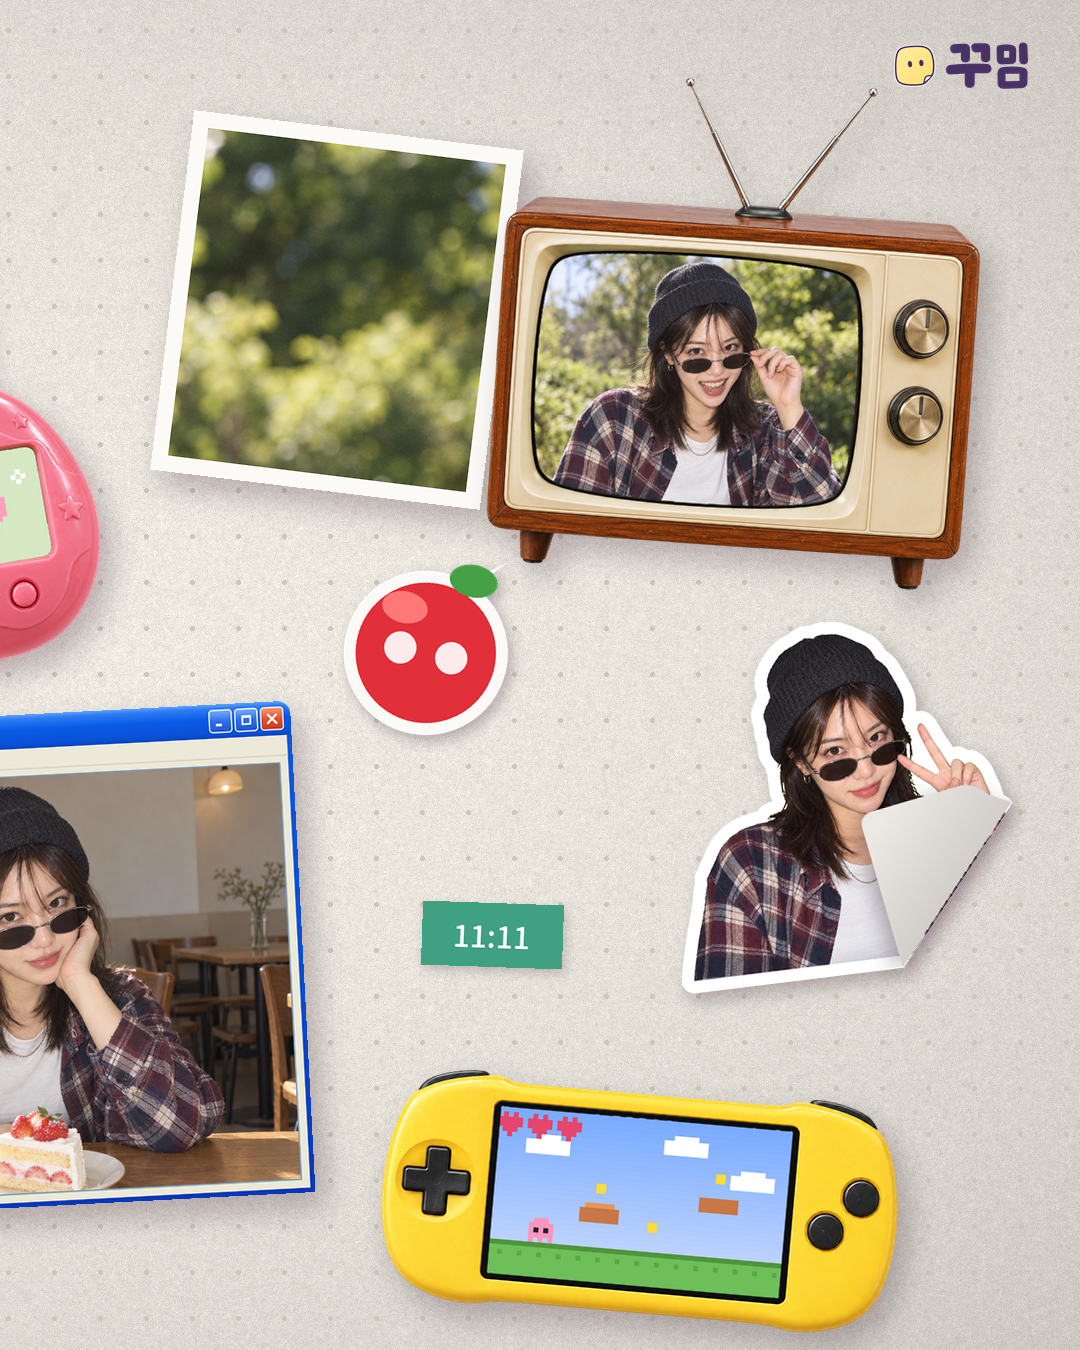
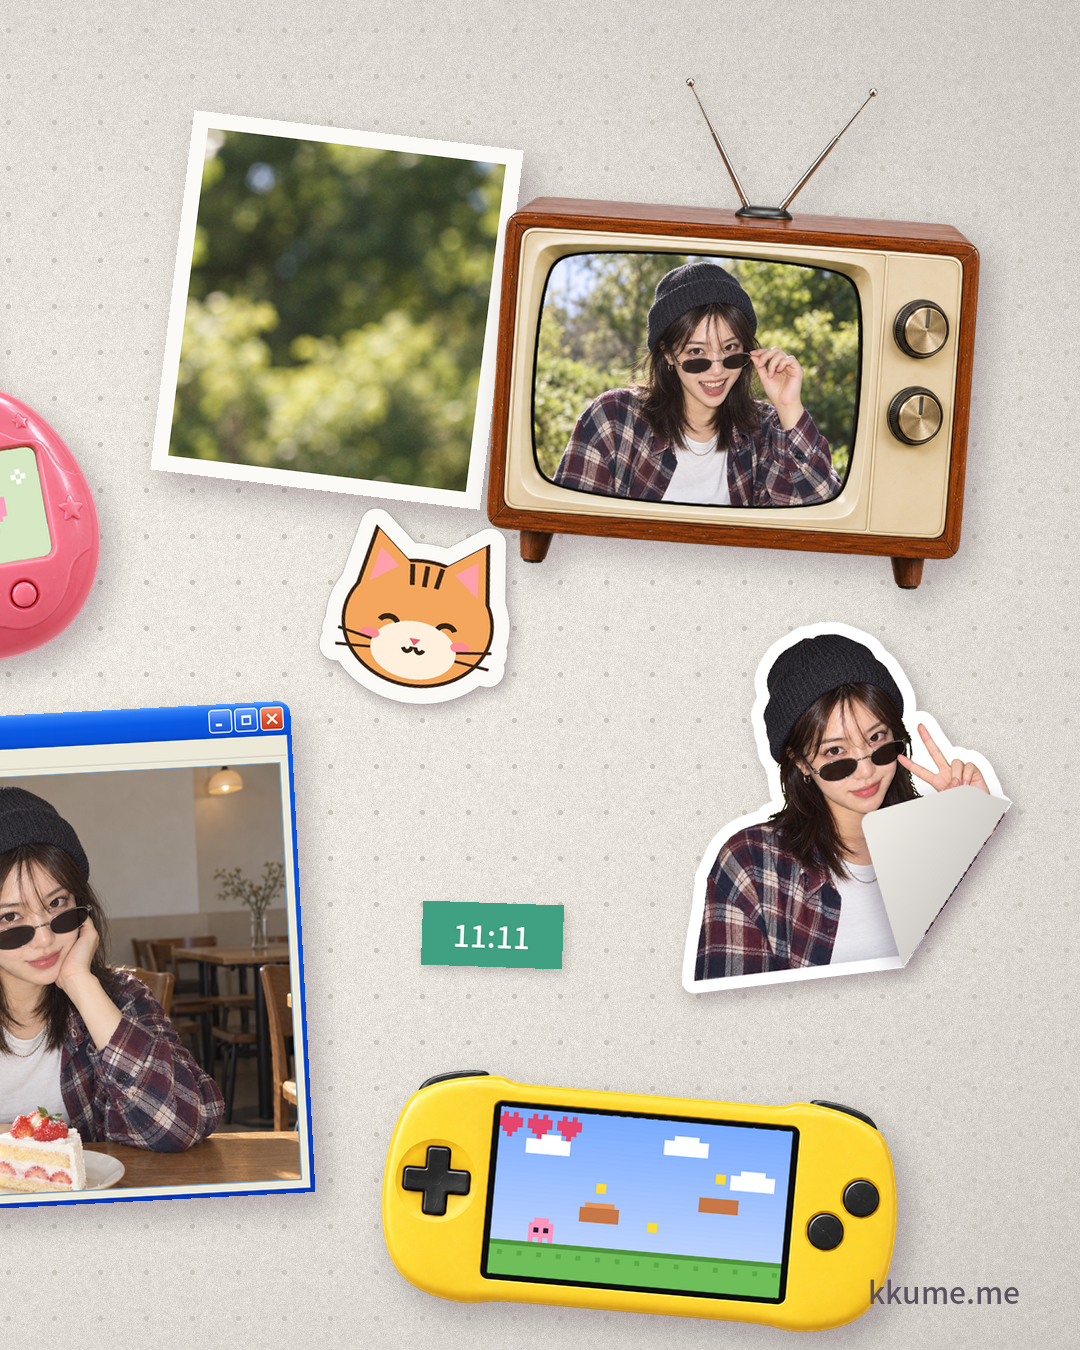
kkumeme 프레임 홍보 시안 v4 (고양이 스티커, 로고 대신 URL)
Claude-Session: https://claude.ai/code/session_01Sztbiq9udTvNwGj4WqCidT

Changed region(s): [[0.275, 0.3733, 0.4889, 0.56], [0.825, 0.0311, 0.9778, 0.0622], [0.7944, 0.9333, 0.9472, 0.9644]]

diff --git a/kkumeme/promo-frames/tools/cat.py b/kkumeme/promo-frames/tools/cat.py
@@ -1,0 +1,44 @@
+from PIL import Image, ImageDraw
+import math
+S = 4; W = H = 300*S
+im = Image.new("RGBA", (W, H), (0,0,0,0)); d = ImageDraw.Draw(im)
+O = (59, 38, 24); OR = (244, 167, 92); CR = (255, 240, 222); PK = (255, 160, 170)
+cx, cy, R = W//2, int(H*0.56), int(W*0.34)
+def ear(sign):
+    return [(cx+sign*R*0.95, cy-R*0.25), (cx+sign*R*0.78, cy-R*1.28), (cx+sign*R*0.18, cy-R*0.82)]
+def headshape(d, grow, fill):
+    for s in (-1, 1): d.polygon([(x+(x-cx)*0+ (grow if x>cx else -grow), y-grow) for x,y in ear(s)], fill=fill)
+    d.ellipse([cx-R*1.05-grow, cy-R*0.9-grow, cx+R*1.05+grow, cy+R*0.85+grow], fill=fill)
+headshape(d, 5*S, O)                  # outline
+headshape(d, 0, OR)
+# inner ears
+for s in (-1, 1):
+    p = ear(s); c0 = ((p[0][0]+p[1][0]+p[2][0])/3, (p[0][1]+p[1][1]+p[2][1])/3)
+    d.polygon([(c0[0]+(x-c0[0])*0.5, c0[1]+(y-c0[1])*0.5) for x,y in p], fill=PK)
+# muzzle cream
+d.ellipse([cx-R*0.62, cy-R*0.05, cx+R*0.62, cy+R*0.78], fill=CR)
+# stripes on forehead
+for dx in (-0.22, 0, 0.22):
+    d.line([cx+R*dx, cy-R*0.86, cx+R*dx*0.8, cy-R*0.56], fill=O, width=7*S)
+# eyes (closed happy arcs)
+for s in (-1, 1):
+    ex = cx+s*R*0.42; ey = cy+R*0.02
+    d.arc([ex-R*0.17, ey-R*0.12, ex+R*0.17, ey+R*0.16], 200, 340, fill=O, width=8*S)
+# blush
+for s in (-1, 1): d.ellipse([cx+s*R*0.66-R*0.14, cy+R*0.22-R*0.08, cx+s*R*0.66+R*0.14, cy+R*0.22+R*0.08], fill=(255, 140, 150))
+# nose + mouth
+d.polygon([(cx-R*0.08, cy+R*0.2), (cx+R*0.08, cy+R*0.2), (cx, cy+R*0.3)], fill=(230, 100, 120))
+d.arc([cx-R*0.18, cy+R*0.22, cx, cy+R*0.42], 0, 160, fill=O, width=6*S)
+d.arc([cx, cy+R*0.22, cx+R*0.18, cy+R*0.42], 20, 180, fill=O, width=6*S)
+# whiskers
+for s in (-1, 1):
+    for k, dy in enumerate((0.3, 0.42)):
+        d.line([cx+s*R*0.62, cy+R*dy, cx+s*R*1.12, cy+R*(dy-0.08+0.12*k)], fill=O, width=4*S)
+import numpy as np
+from scipy import ndimage as ndi
+A = np.asarray(im.getchannel("A")) > 127; dist = ndi.distance_transform_edt(~A); ring = (dist <= 24*S) & ~A
+base = Image.new("RGBA", im.size, (0,0,0,0)); m = Image.fromarray((ring*255).astype(np.uint8)).filter(__import__("PIL.ImageFilter",fromlist=["x"]).GaussianBlur(2))
+white = Image.new("RGBA", im.size, (252,250,246,255)); base.paste(white, (0,0), m); base.alpha_composite(im); im = base
+im = im.crop(im.getbbox()).resize((im.crop(im.getbbox()).width//S, im.crop(im.getbbox()).height//S), Image.LANCZOS)
+im.save("work/cat.png"); print(im.size)
+bg = Image.new("RGBA", im.size, (230, 225, 215, 255)); bg.alpha_composite(im); bg.convert("RGB").save("/tmp/claude-0/cat.jpg")

diff --git a/kkumeme/promo-frames/tools/compose3.py b/kkumeme/promo-frames/tools/compose3.py
@@ -52,12 +52,12 @@ shadow_place(c, framed("window-glossy", "cafe-strawberry.png", 600, (0.5, 0.35))
 # right
 shadow_place(c, print_photo(PH+"laughing-wide.png", (1180, 0, 1536, 420), 300, 330), 1230, 110, rot=-7)
 shadow_place(c, framed("crt-tv", "laughing-wide.png", 480, (0.5, 0.3)), 1560, 60, rot=-4)
-shadow_place(c, button(70), 1400, 520, rot=-12, blur=6, off=(4, 6))
+cat = Image.open(WK+"cat.png"); cat = cat.resize((190, int(190*cat.height/cat.width)), Image.LANCZOS)
+shadow_place(c, cat, 1390, 500, rot=-10, blur=6, off=(4, 6))
 sf = Image.open(WK + "sticker-face.png"); sf = sf.resize((380, int(380*sf.height/sf.width)), Image.LANCZOS)
 pl = peeled(sf, (sf.width*0.74, sf.height*0.80), (1.0, 0.85)); shadow_place(c, pl, 1720, 600, rot=7, blur=8, off=(6, 8))
 shadow_place(c, label("11:11", (64, 160, 130)), 1500, 900, rot=-2, blur=5, off=(3, 5), op=0.2)
 shadow_place(c, framed("handheld-game", SC+"pixel-game.png", 520, (0.5, 0.5)), 1450, 1060, rot=-5)
-logo = Image.open("/home/claude/devrocket-media/kkumeme/brand/logo-horizontal.png").convert("RGBA"); logo = logo.resize((150, int(150*logo.height/logo.width)), Image.LANCZOS)
-c.alpha_composite(logo, (W - 190, 40))
+ImageDraw.Draw(c).text((W - 60, H - 46), "kkume.me", font=F(30, "Medium"), fill=(90, 82, 96), anchor="rs")
 c = c.convert("RGB"); c.save(WK+"wide.png"); c.crop((0, 0, 1080, H)).save(WK+"slide-1.png"); c.crop((1080, 0, 2160, H)).save(WK+"slide-2.png")
 c.resize((1080, 675)).save("/tmp/claude-0/wide.jpg", quality=88)
